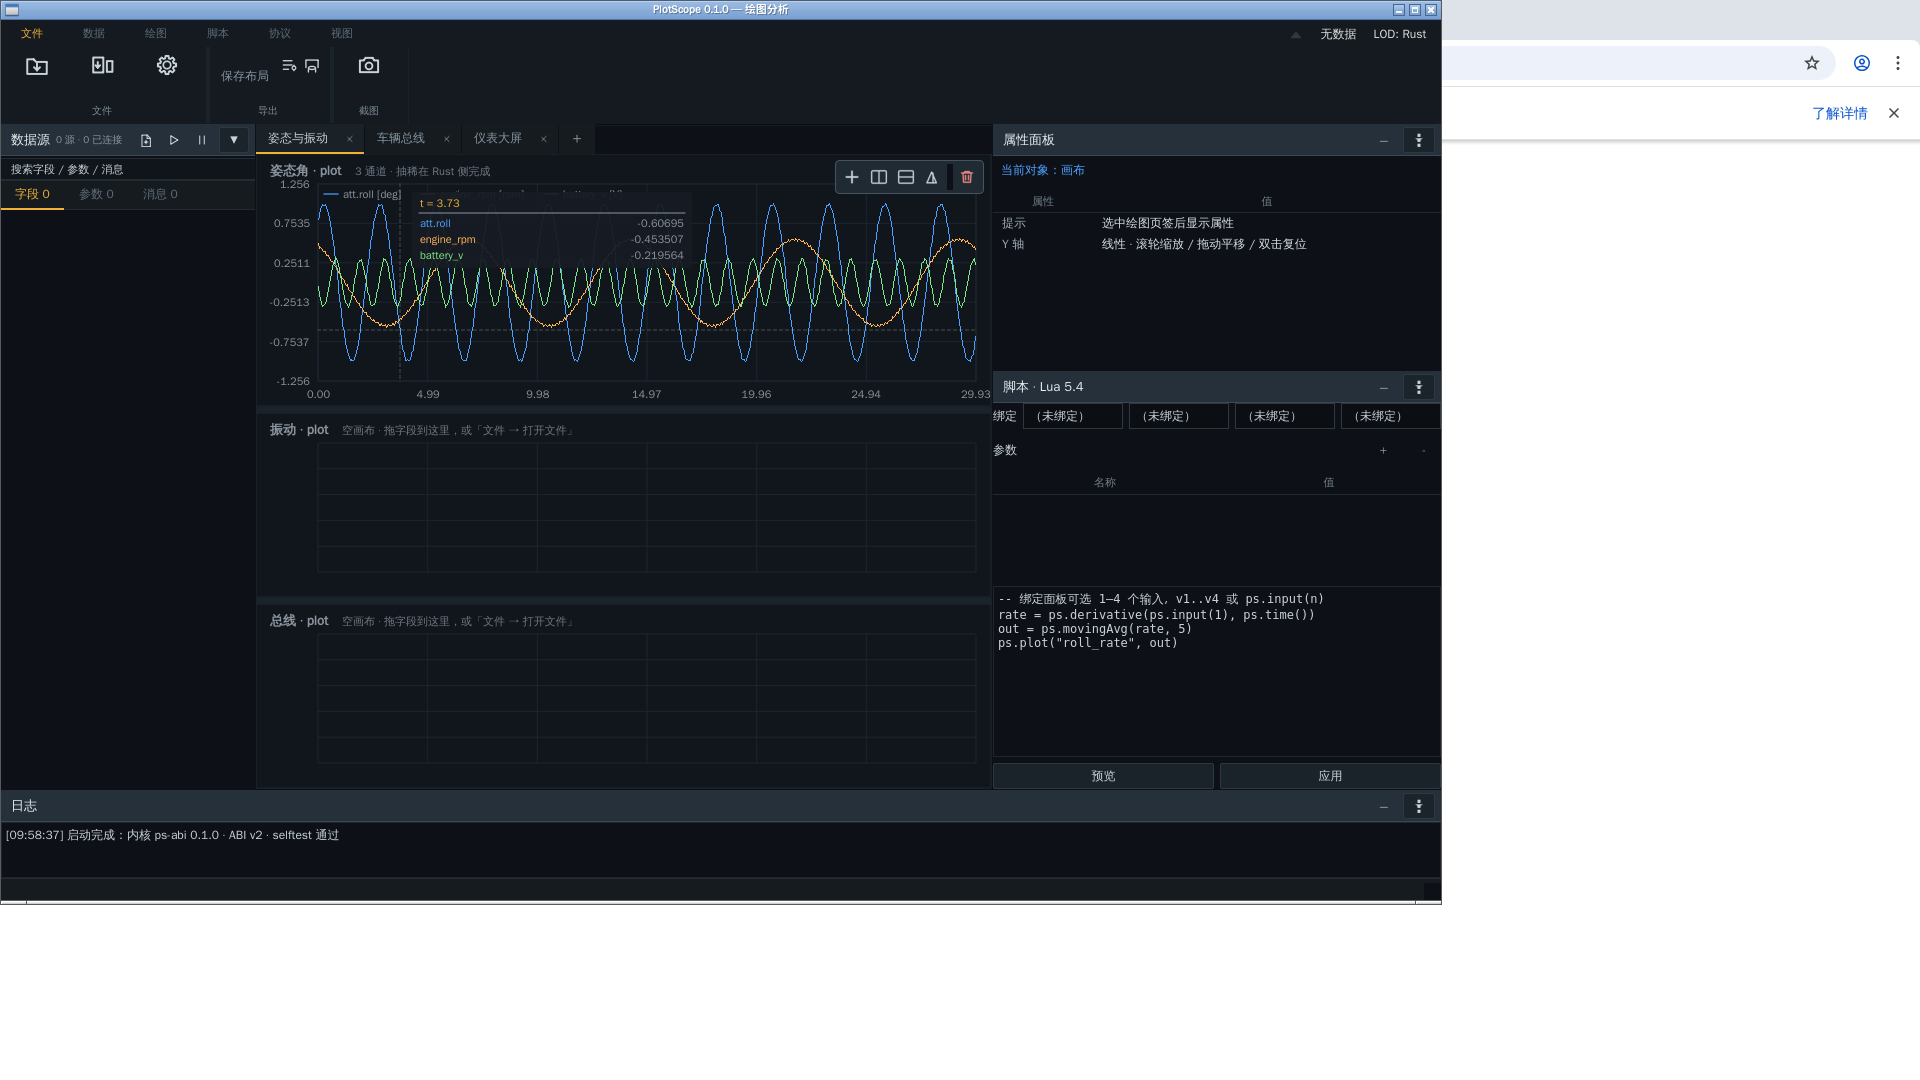
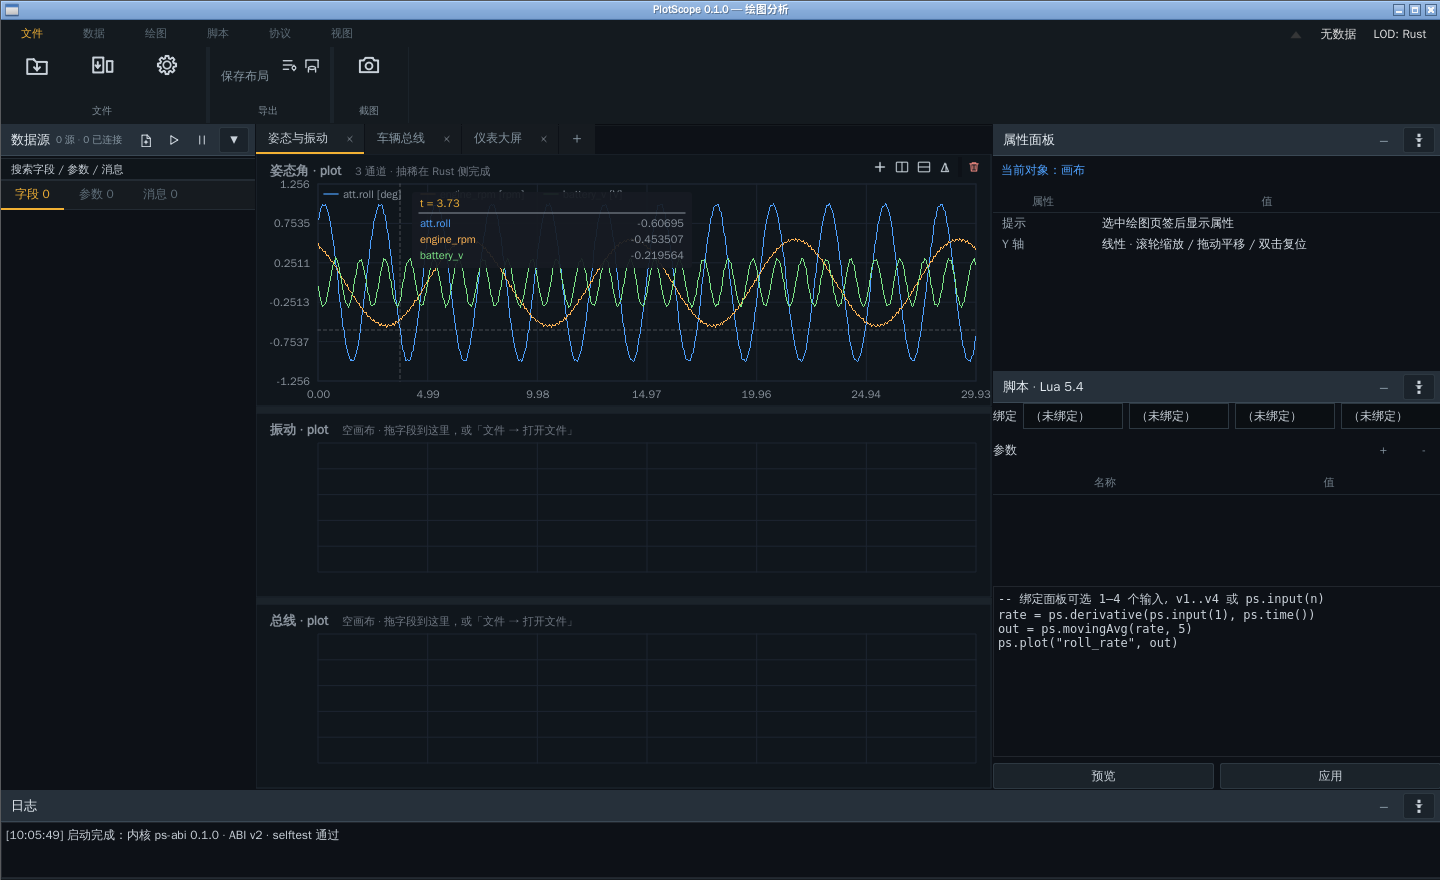
style(canvas): 悬浮工具条并入标题行
去掉浮层卡片边框与底色，按钮缩到 20px，与画布标题同一行右对齐；补上悬停条/标题拖拽的头文件声明。

diff --git a/src/app/canvas/CanvasWidget.cpp b/src/app/canvas/CanvasWidget.cpp
@@ -130,13 +130,13 @@ void CanvasWidget::buildHoverBar()
     m_hoverBar = new QWidget(this);
     m_hoverBar->setObjectName(QStringLiteral("canvasHoverBar"));
     m_hoverBar->setStyleSheet(QStringLiteral(
-        "QWidget#canvasHoverBar{background:#202a33;border:1px solid #46545f;border-radius:4px;}"
+        "QWidget#canvasHoverBar{background:transparent;border:0;}"
         "QToolButton{background:transparent;border:0;padding:0;}"
-        "QToolButton:hover{background:#2a343d;border-radius:3px;}"
+        "QToolButton:hover{background:#26313a;border-radius:2px;}"
         "QToolButton[danger=true]:hover{background:#3a2427;}"));
     auto *lay = new QHBoxLayout(m_hoverBar);
-    lay->setContentsMargins(4, 4, 4, 4);
-    lay->setSpacing(1);
+    lay->setContentsMargins(0, 0, 0, 0);
+    lay->setSpacing(2);
 
     auto addBtn = [&](const QString &icon, const QString &tip, std::function<void()> fn,
                       const QColor &tint = QColor(QStringLiteral("#c8d2da"))) {
@@ -151,13 +151,13 @@ void CanvasWidget::buildHoverBar()
         ip.fillRect(out.rect(), tint);
         ip.end();
         b->setIcon(QIcon(out));
-        b->setIconSize(QSize(18, 18));
+        b->setIconSize(QSize(14, 14));
         b->setToolTip(tip);
         b->setCursor(Qt::PointingHandCursor);
-        b->setFixedSize(26, 26);
+        b->setFixedSize(20, 20);
         b->setStyleSheet(QStringLiteral(
             "QToolButton{background:transparent;border:0;padding:0;}"
-            "QToolButton:hover{background:#2a343d;border-radius:3px;}"));
+            "QToolButton:hover{background:#26313a;border-radius:2px;}"));
         QObject::connect(b, &QToolButton::clicked, m_hoverBar, fn);
         lay->addWidget(b);
         return b;
@@ -173,7 +173,7 @@ void CanvasWidget::buildHoverBar()
     m_dragBtn->installEventFilter(this);
     m_dragBtn->setCursor(Qt::OpenHandCursor);
     auto *sep = new QWidget(m_hoverBar);
-    sep->setFixedWidth(6);
+    sep->setFixedWidth(4);
     lay->addWidget(sep);
     auto *del = addBtn(QStringLiteral(":/icons/trash.svg"), QStringLiteral("删除本画布"),
                        [this] { emit removeRequested(); }, QColor(QStringLiteral("#f28b82")));
@@ -191,7 +191,7 @@ void CanvasWidget::positionHoverBar()
         return;
     m_hoverBar->adjustSize();
     const int w = m_hoverBar->sizeHint().width();
-    m_hoverBar->move(std::max(6, width() - w - 8), 6);
+    m_hoverBar->move(std::max(6, width() - w - 8), 3);
     m_hoverBar->raise();
 }
 

diff --git a/src/app/canvas/CanvasWidget.h b/src/app/canvas/CanvasWidget.h
@@ -9,6 +9,8 @@
 #include <QVector>
 #include <QWidget>
 
+class QToolButton;
+
 struct PsChannelInfo;
 
 // 一块画布（一页里的一个 plot 格）。
@@ -94,6 +96,9 @@ protected:
     void mouseReleaseEvent(QMouseEvent *event) override;
     void mouseDoubleClickEvent(QMouseEvent *event) override;
     void leaveEvent(QEvent *event) override;
+    void enterEvent(QEnterEvent *event) override;
+    void resizeEvent(QResizeEvent *event) override;
+    bool eventFilter(QObject *watched, QEvent *event) override;
     void dragEnterEvent(QDragEnterEvent *event) override;
     void dropEvent(QDropEvent *event) override;
 
@@ -143,6 +148,9 @@ private:
     void paintTraj3D(QPainter &p, const QRectF &plot, const QFontMetrics &fm);
     void paintGpsMap(QPainter &p, const QRectF &plot, const QFontMetrics &fm);
     void paintSurface3D(QPainter &p, const QRectF &plot, const QFontMetrics &fm);
+    void buildHoverBar();
+    void positionHoverBar();
+    void reorderByCursor(const QPoint &globalPos);
     double lastValue(const QString &namePart, bool *ok) const;
 
     QString m_title;
@@ -176,6 +184,11 @@ private:
     QString m_modeTag;
     bool m_dragging = false;
     bool m_hover = false;
+    QWidget *m_hoverBar = nullptr;
+    QToolButton *m_dragBtn = nullptr;
+    bool m_reordering = false;
+    bool m_titleDrag = false;
+    QPointF m_titleDragStart;
     QPointF m_lastPos;
     QPointF m_cursor;
     QVector<QRectF> m_legendRects;   // 图例命中区，随 paint 重算
